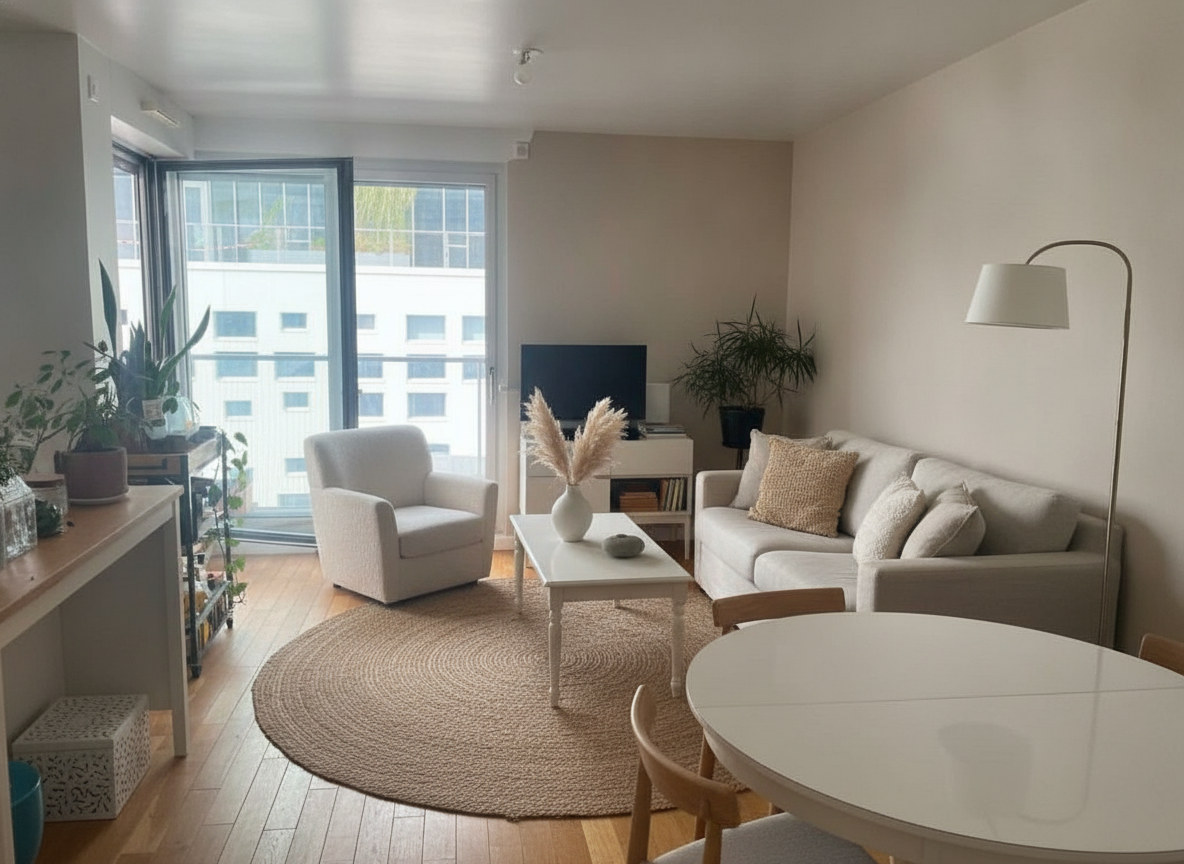
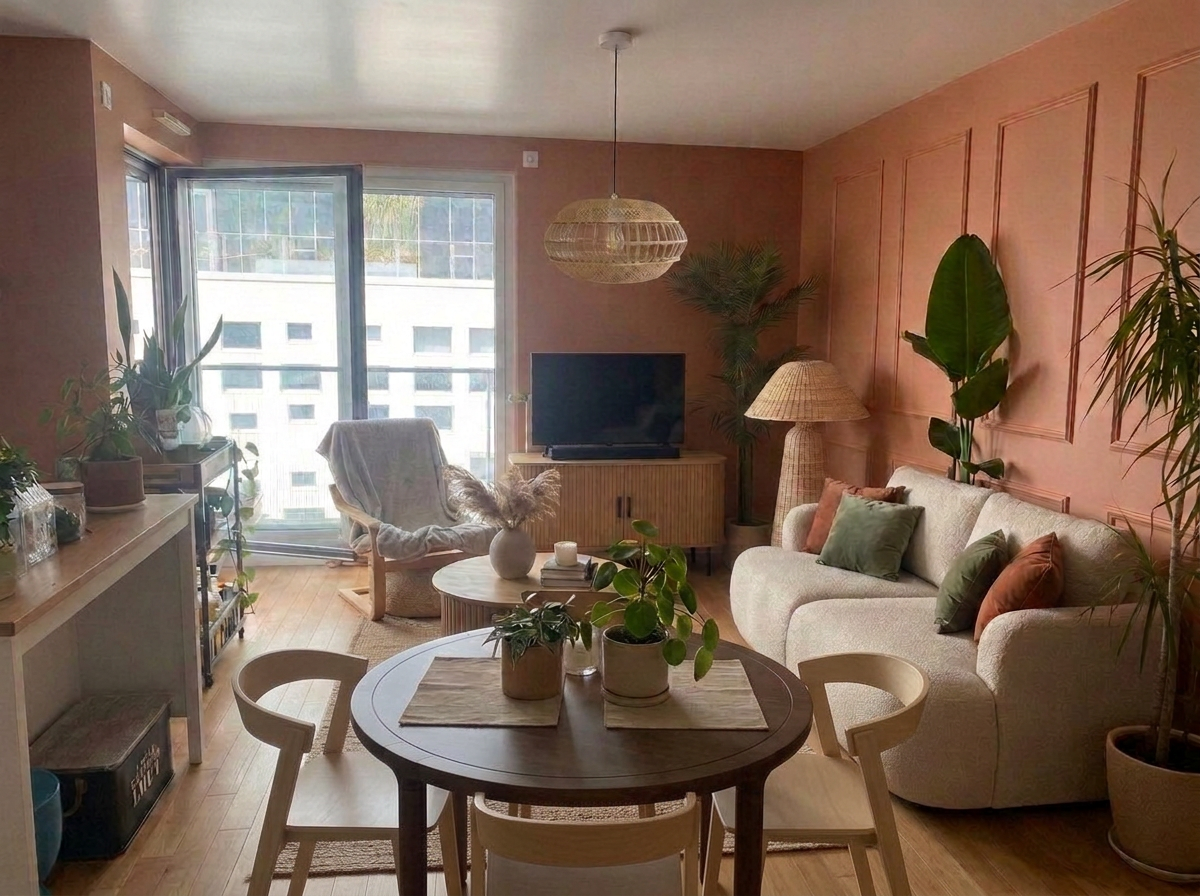
fix(expert): un « Nouveau rendu » n'efface plus les meubles ajoutés par itération
runExpertRenderPipeline repartait TOUJOURS du rendu fictif. Or une itération
expert (« ajoute une table et des chaises ») ajoute des meubles au rendu EXPERT,
jamais au fake. Au clic suivant sur « Nouveau rendu » (ou au choix d'un produit),
le swap repartait donc d'une image où ces meubles n'existent pas : ils étaient
effacés de l'image, alors que la liste et expertIntegratedPieces les gardaient.
Image et liste se contredisaient.

Le fake reste la base par défaut (il porte le style validé, et repartir de lui
évite d'empiler les éditions). Mais dès qu'une itération expert a eu lieu
(expertIterated), le fake cesse d'être une base valide : on swappe sur le rendu
expert courant, ce qui préserve l'itération.

Les trois branches sont corrigées, y compris les replis « aucun meuble à swapper »
et « aucune image produit valide », qui réécrivaient eux aussi le fake par-dessus
le rendu itéré.

Landing : nouvelle photo « après » du Salon Parisien.

diff --git a/lib/ai/expert.ts b/lib/ai/expert.ts
@@ -434,23 +434,36 @@ export async function runExpertRenderPipeline(projectId: string): Promise<string
   );
   for (const id of userPicked) replaceIds.add(id);
   const pieces = selectExpertPieces(swappable, overrides, customProducts, replaceIds);
+
+  // BASE DU SWAP. Par défaut le fake : il porte le style validé, et repartir de lui
+  // à chaque fois évite d'empiler les éditions (dégradation de l'image).
+  // MAIS si le rendu expert a été ITÉRÉ, il contient des meubles que le fake n'a
+  // jamais eus (« ajoute une table et des chaises »). Repartir du fake les EFFACE :
+  // c'est ce qui a fait disparaître table et chaises au clic sur « Nouveau rendu »,
+  // alors que la base de données les gardait — image et liste se contredisaient
+  // (QA Alexis 2026-07-12). Dans ce cas, on swappe sur le rendu expert courant.
+  const base =
+    project.expertIterated && project.expertRenderUrl
+      ? project.expertRenderUrl
+      : project.generatedRenderUrl;
+
   if (pieces.length === 0) {
-    // Rien à remplacer (tous les meubles gardés, pièce déjà bien meublée) → le rendu
-    // réel = le fake tel quel (pas de 400 : c'est un résultat légitime).
-    console.log(`[expert] ${projectId} : aucun gros meuble à swapper → rendu réel = fake`);
-    await updateProject(projectId, { expertRenderUrl: project.generatedRenderUrl });
-    return project.generatedRenderUrl;
+    // Rien à remplacer (tous les meubles gardés, pièce déjà bien meublée) → on garde
+    // la base telle quelle (pas de 400 : c'est un résultat légitime).
+    console.log(`[expert] ${projectId} : aucun gros meuble à swapper → rendu réel = base`);
+    await updateProject(projectId, { expertRenderUrl: base });
+    return base;
   }
 
   console.log(
-    `[expert] ${projectId} : swap-sur-fake — ${pieces.length} meubles (${pieces.map((p) => p.category).join(", ")})`,
+    `[expert] ${projectId} : swap sur ${project.expertIterated ? "le rendu expert ITÉRÉ" : "le fake"} — ${pieces.length} meubles (${pieces.map((p) => p.category).join(", ")})`,
   );
-  const result = await swapOnFake(project.generatedRenderUrl, pieces, project.roomType);
+  const result = await swapOnFake(base, pieces, project.roomType);
   if (!result) {
-    // Aucune image produit valide → on NE génère PAS (anti-hallucination) : rendu = fake.
-    console.warn(`[expert] ${projectId} : aucune image produit valide → rendu réel = fake`);
-    await updateProject(projectId, { expertRenderUrl: project.generatedRenderUrl });
-    return project.generatedRenderUrl;
+    // Aucune image produit valide → on NE génère PAS (anti-hallucination) : on garde la base.
+    console.warn(`[expert] ${projectId} : aucune image produit valide → rendu réel = base`);
+    await updateProject(projectId, { expertRenderUrl: base });
+    return base;
   }
   const { buffer, mimeType, integrated } = result;
 
@@ -661,7 +674,9 @@ export async function runExpertIteration(projectId: string, userRequest: string)
   const { buffer, mimeType } = await callNb2(prompt, [await toDataUri(parentUrl)]);
   const n = (project.iterationCount ?? 0) + 1;
   const url = await saveRender(buffer, project.storageFolder, mimeType, `iterate_${n}`);
-  await updateProject(projectId, { expertRenderUrl: url, iterationCount: n });
+  // expertIterated : à partir d'ici, le rendu expert peut contenir des meubles que
+  // le fake n'a jamais eus → le fake n'est plus une base de swap valide.
+  await updateProject(projectId, { expertRenderUrl: url, iterationCount: n, expertIterated: true });
   console.log(`[expert] ${projectId} : itération expert #${n} sauvegardée`);
   return url;
 }

diff --git a/lib/types.ts b/lib/types.ts
@@ -191,6 +191,10 @@ export type Project = {
   // rideaux conservés) puis MEUBLÉE avec les VRAIS produits du catalogue (gros
   // meubles) — flux /expert-create.
   expertRenderUrl?: string | null;
+  // Le rendu expert a été ITÉRÉ (« ajoute une table et des chaises ») → il contient
+  // des meubles que le rendu fictif n'a jamais eus. Le fake cesse alors d'être une
+  // base valide pour le swap : repartir de lui EFFACERAIT l'itération.
+  expertIterated?: boolean;
   // Coquille vide de la pièce (mobilier retiré, architecture conservée) — étape 1
   // du rendu expert. Mise en cache : la photo de base ne change jamais, on ne la
   // re-vide donc pas à chaque régénération.
